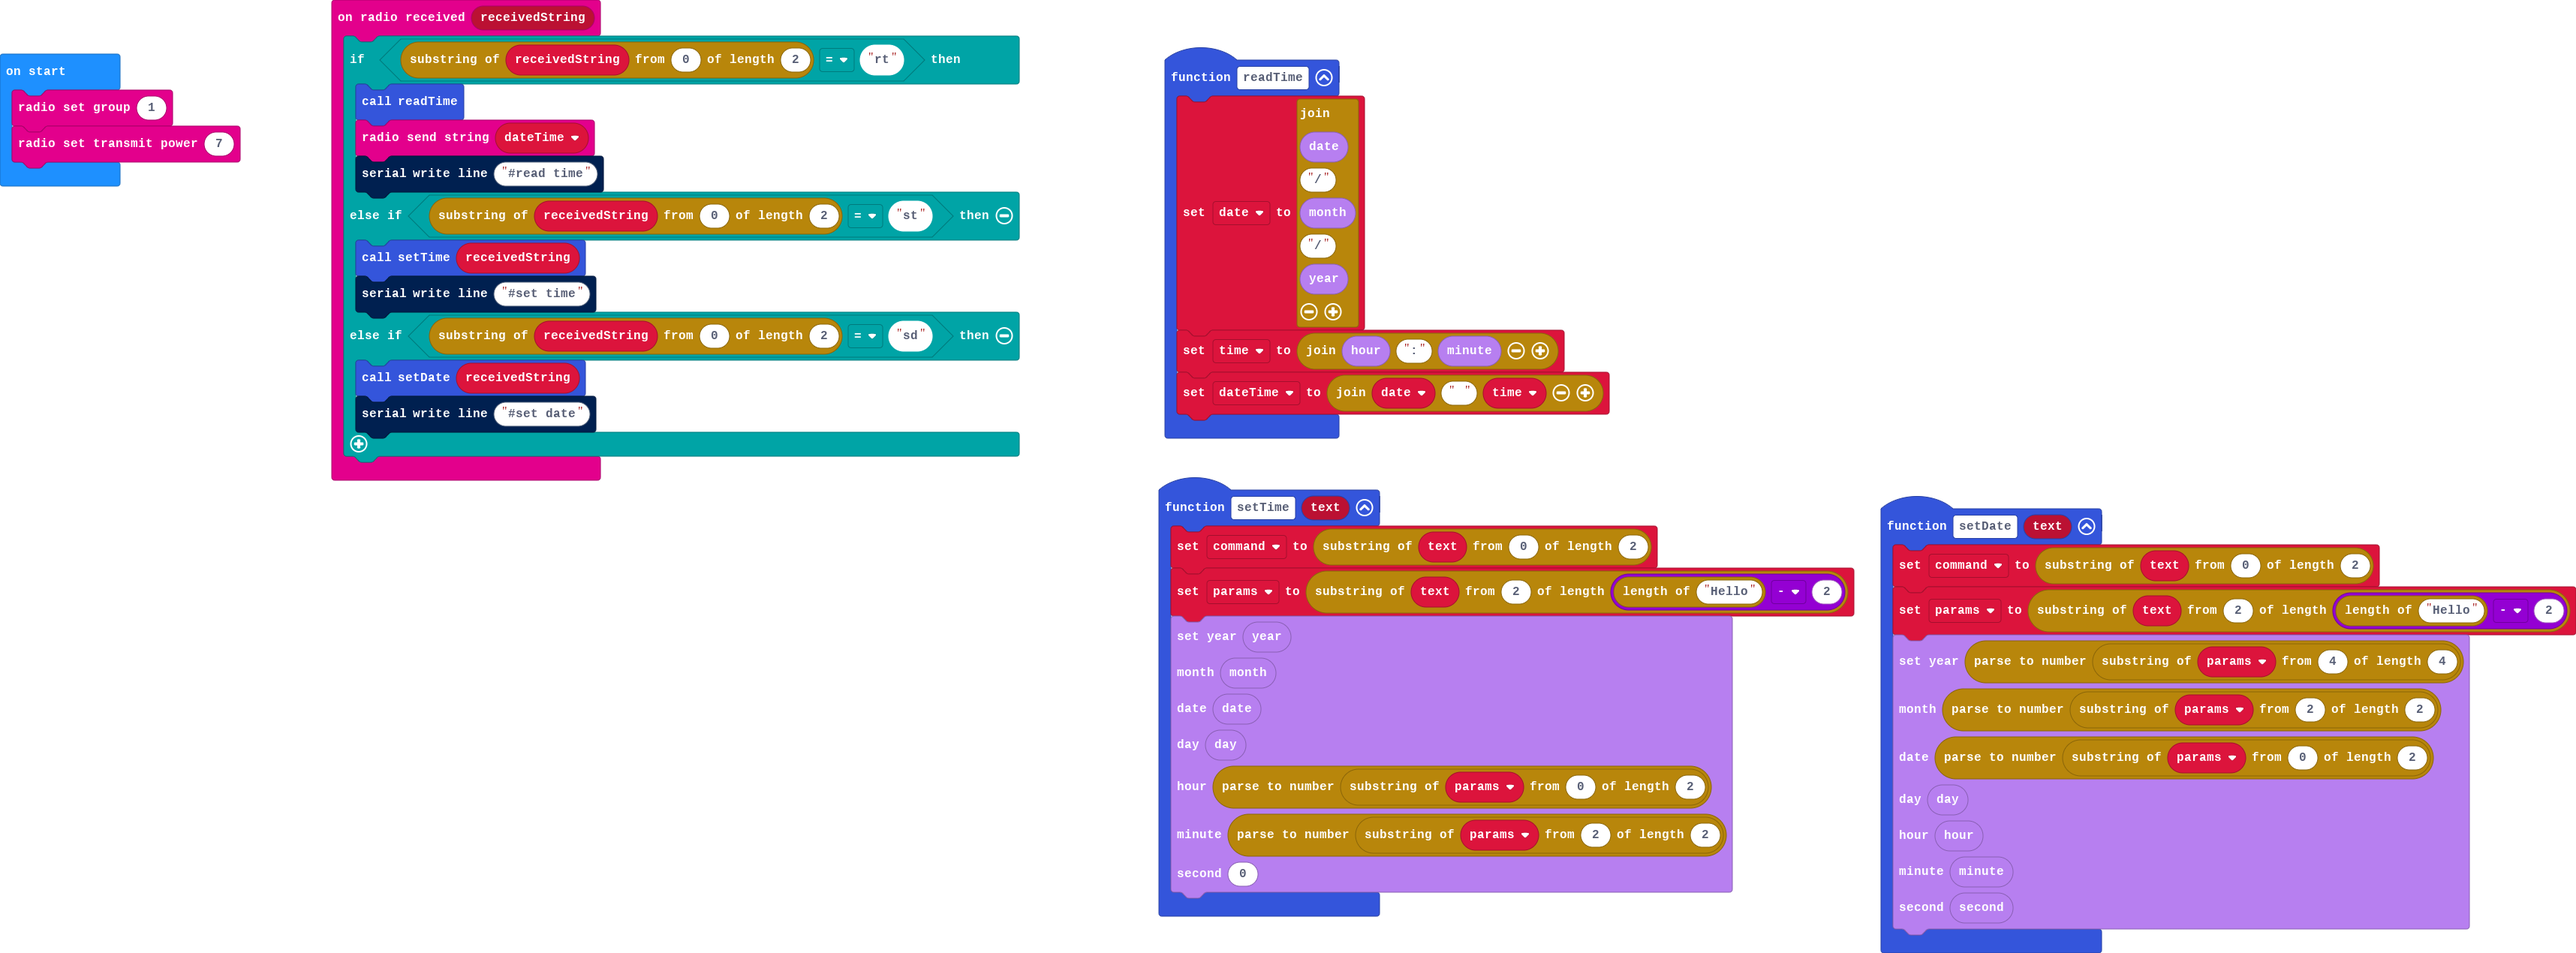
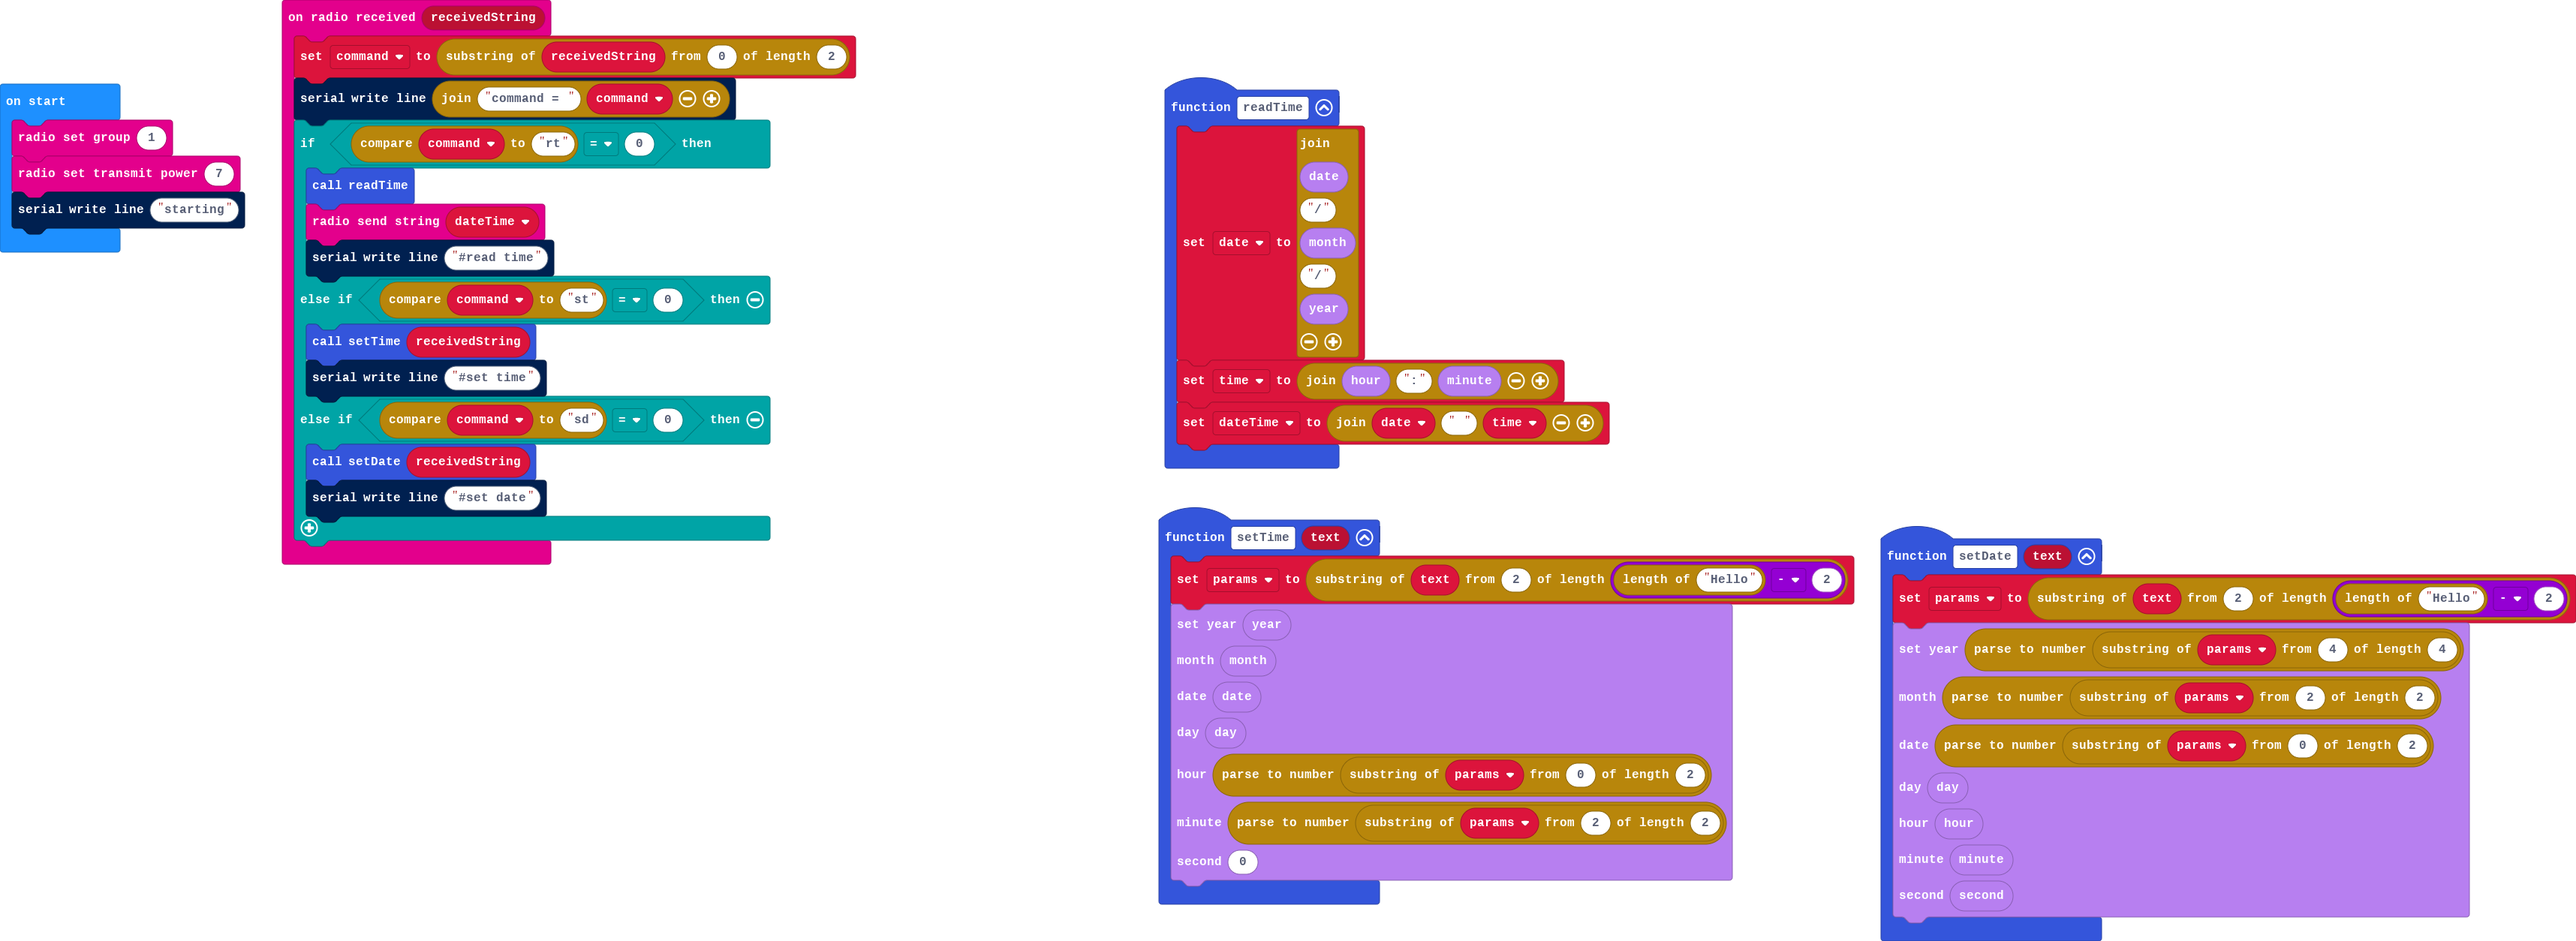
Update main.blocks, main.ts

Changed region(s): [[0.4365, 0.0311, 1.0, 0.9641], [0.0, 0.0, 0.4053, 0.622], [0.4677, 0.933, 0.53, 0.9641]]

diff --git a/main.ts b/main.ts
@@ -4,7 +4,6 @@ function readTime () {
     dateTime = "" + date + " " + time
 }
 function setDate (text: string) {
-    command = text.substr(0, 2)
     params = text.substr(2, "Hello".length - 2)
     DS3231.dateTime(
     parseFloat(params.substr(4, 4)),
@@ -17,7 +16,6 @@ function setDate (text: string) {
     )
 }
 function setTime (text: string) {
-    command = text.substr(0, 2)
     params = text.substr(2, "Hello".length - 2)
     DS3231.dateTime(
     DS3231.year(),
@@ -30,22 +28,25 @@ function setTime (text: string) {
     )
 }
 radio.onReceivedString(function (receivedString) {
-    if (receivedString.substr(0, 2) == "rt") {
+    command = receivedString.substr(0, 2)
+    serial.writeLine("command = " + command)
+    if (command.compare("rt") == 0) {
         readTime()
         radio.sendString(dateTime)
         serial.writeLine("#read time")
-    } else if (receivedString.substr(0, 2) == "st") {
+    } else if (command.compare("st") == 0) {
         setTime(receivedString)
         serial.writeLine("#set time")
-    } else if (receivedString.substr(0, 2) == "sd") {
+    } else if (command.compare("sd") == 0) {
         setDate(receivedString)
         serial.writeLine("#set date")
     }
 })
-let params = ""
 let command = ""
+let params = ""
 let dateTime = ""
 let time = ""
 let date = ""
 radio.setGroup(1)
 radio.setTransmitPower(7)
+serial.writeLine("starting")
